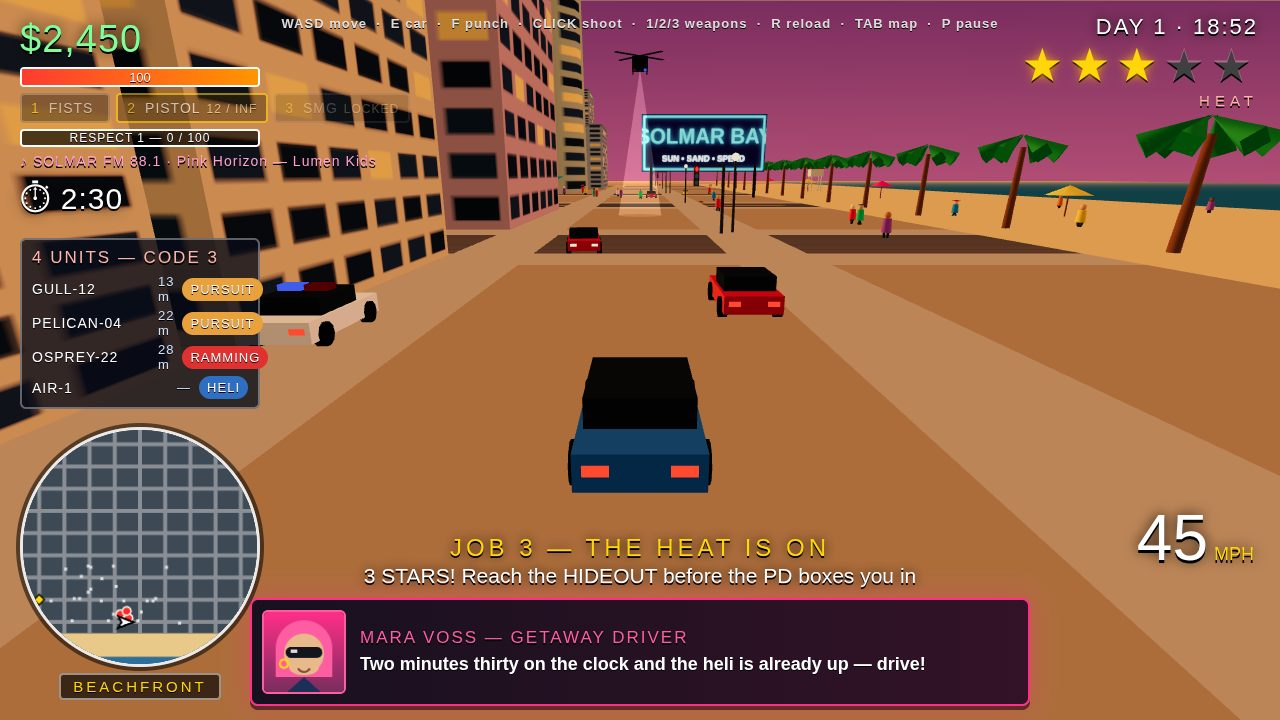
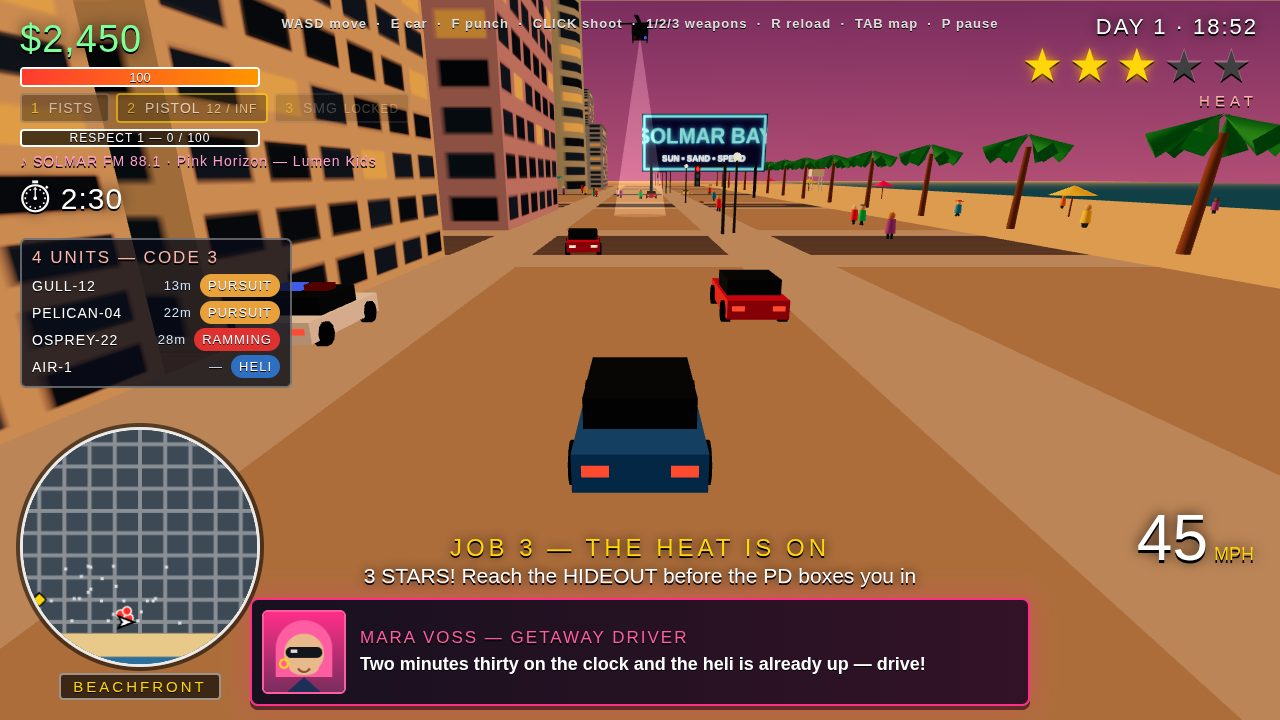
Round 4 polish: units distance one line; mission shot traffic-light pole out of frame

diff --git a/game/style.css b/game/style.css
@@ -51,7 +51,7 @@ body { font-family: "Arial Black", Arial, Helvetica, sans-serif; color: #fff; }
   text-shadow: 0 2px 0 #000, 0 0 14px rgba(0,0,0,.9);
 }
 #units-panel {
-  margin-top: 10px; width: 240px; background: rgba(8,12,24,.78);
+  margin-top: 10px; width: 272px; background: rgba(8,12,24,.78);
   border: 2px solid rgba(255,255,255,.35); border-radius: 6px; padding: 8px 10px;
 }
 #units-title { font-size: 17px; letter-spacing: 2px; color: #ffb3ab; text-shadow: 0 2px 0 #000; }
@@ -60,8 +60,8 @@ body { font-family: "Arial Black", Arial, Helvetica, sans-serif; color: #fff; }
   display: flex; align-items: center; gap: 8px;
   font-size: 14px; letter-spacing: 1px; text-shadow: 0 1px 0 #000;
 }
-#units-list .unit-name { color: #fff; flex: none; min-width: 118px; }
-#units-list .unit-dist { color: #cfe3ff; margin-left: auto; font-size: 13px; }
+#units-list .unit-name { color: #fff; flex: none; min-width: 100px; }
+#units-list .unit-dist { color: #cfe3ff; margin-left: auto; font-size: 13px; white-space: nowrap; }
 #units-list .pill { flex: none; }
 #units-list .pill {
   font-size: 13px; letter-spacing: 1px; padding: 4px 8px; border-radius: 12px;

diff --git a/game/src/city.js b/game/src/city.js
@@ -501,12 +501,15 @@ export function buildCity(scene, seed) {
       if ((ix + iz) % 2 !== 0) continue;
       const sx = STREETS[ix], sz = STREETS[iz];
       const pole = new THREE.Mesh(new THREE.CylinderGeometry(0.12, 0.14, 5.6, 6), lampMat);
+      pole.name = 'traffic-light';
       pole.position.set(sx + 7.4, 2.8, sz + 7.4);
       scene.add(pole);
       const arm = new THREE.Mesh(new THREE.BoxGeometry(0.16, 0.16, 2.6), lampMat);
+      arm.name = 'traffic-light';
       arm.position.set(sx + 7.4, 5.4, sz + 6.2);
       scene.add(arm);
       const head = new THREE.Mesh(new THREE.BoxGeometry(0.55, 1.6, 0.4), lightHeadMat);
+      head.name = 'traffic-light';
       head.position.set(sx + 7.4, 4.6, sz + 5.2);
       scene.add(head);
     }

diff --git a/game/src/shots.js b/game/src/shots.js
@@ -165,6 +165,12 @@ export function applyShot(world, name) {
     world.camera.yaw = 0;
     world.camera.pitch = 0.36;
     world.camera.dist = 12;
+    // The traffic light at the beach-road corner (112, 224) looms ~16 m from
+    // the camera in this shot and reads as a city intersection on the sand —
+    // hide just that one light for this shot; every other light stays.
+    world.scene.traverse((o) => {
+      if (o.name === 'traffic-light' && Math.hypot(o.position.x - 119.4, o.position.z - 230) < 3) o.visible = false;
+    });
     world.shotObjective = {
       title: 'JOB 1 — THE PICKUP',
       text: 'Drive to the DOCKS and collect the package',

diff --git a/game/src/hud.js b/game/src/hud.js
@@ -186,7 +186,7 @@ export class HUD {
       const rows = (s.police || []).map((c) => {
         const d = Math.round(Math.hypot(c.x - s.playerX, c.z - s.playerZ));
         const mode = c.mode || 'pursuit';
-        return { name: c.callsign || 'UNIT', dist: `${d} m`, mode, key: `${c.callsign}|${mode}|${Math.round(d / 5)}` };
+        return { name: c.callsign || 'UNIT', dist: `${d}m`, mode, key: `${c.callsign}|${mode}|${Math.round(d / 5)}` };
       });
       const unitsKey = `${s.wanted}|${rows.map((r) => r.key).join(',')}|${s.policeCops}|${s.heliActive}`;
       if (unitsKey !== this.lastUnitsKey) {
